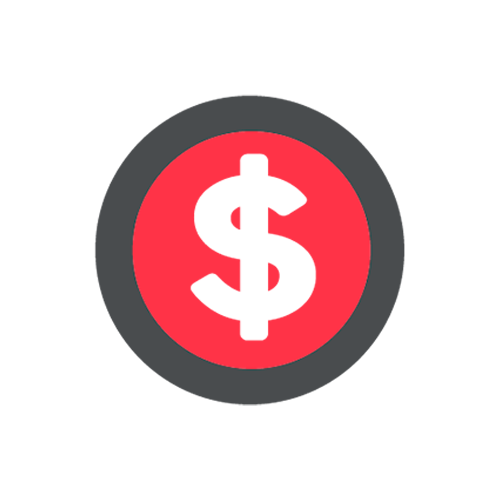
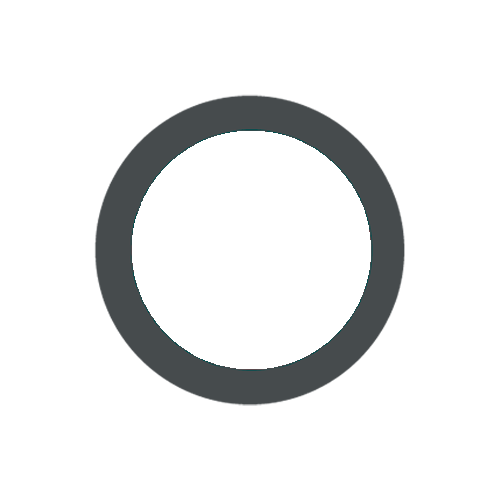
restante das alteracoe no alinhamento

Changed region(s): [[0.24, 0.24, 0.75, 0.75], [0.51, 0.51, 0.57, 0.6], [0.45, 0.42, 0.48, 0.48]]

diff --git a/index.html b/index.html
@@ -11,21 +11,22 @@
 
     <header>
         <nav class="menu" >
-            <a href="index.html"><img class="icon" src="imagens/apenas logo colorido.png" alt="Home page"></a>
-                              
+            <div id="btn-home">
+            <a target="_blank" href="index.html"><img class="icon" src="imagens/apenas logo colorido.png" alt="Home page"></a>
+        </div>                 
             <div class="icone-menu" >
-              <a href="Cadastro Express.html"><img class="icon" src="imagens/express.png" alt="Envio Express"></a>
+              <a target="_blank" href="Cadastro Express.html"><img class="icon" src="imagens/express.png" alt="Envio Express"></a>
               <p>Envio Express</p>
             </div>
             <div class="icone-menu">
-                <a href="Cadastro Express.html"><img class="icon" src="imagens/jumbo.png" alt="Envio Jumbo"></a>
+                <a target="_blank" href="Cadastro Express.html"><img class="icon" src="imagens/jumbo.png" alt="Envio Jumbo"></a>
                 <p>Envio Jumbo</p>
             </div>
             <div class="icone-menu">
-                <a href="Cadastro Express.html"><img class="icon" src="imagens/ajuda.png" alt="Central de Ajuda"></a>
+                <a target="_blank" href="Cadastro Express.html"><img class="icon" src="imagens/ajuda.png" alt="Central de Ajuda"></a>
                 <p>Central de Ajuda</p>
             </div>  
-                 <button>Entrar</button>
+                 <button id="btn-entrar">Entrar</button>
             </nav>
     </header>
     <body> 
@@ -42,25 +43,34 @@
             <section class="pagina-dois" >
                 <div id="part1">
                 <img class="icone-pag2" src="imagens/medalha.png" alt="">
-                <p>A líder de mercado de móveis, cama, mesa e banho, está utilizando todos os seus anos de experiência para oferecer uma nova experiência no mercado de logística.</p>
+                <p>A líder no mercado de móveis, cama, mesa e banho, está utilizando todos os seus anos de experiência para oferecer uma nova experiência no mercado de logística.</p>
                 <img id="moveis" src="imagens/moveis.jpg" alt="Móveis Log4"> 
                 </div>
                 <div id="part2">
                 <img id="logistica" src="imagens/logistica.png" alt="caixas Log4">
-                <p>Agora, nós cuidamos de suas encomendas, não importa o tamanho do seu pacote, nós entregamos de forma rápida e segura!</p>
+                <p>Agora, nós cuidamos de suas encomendas. Não importa o tamanho do seu pacote, nós entregamos de forma rápida e segura!</p>
                <img class="icone-pag2" src="imagens/relogio.png" alt="">
-                <button id="botao-cliente">Quero ser Cliente ></button>
+                <div>
+                <button id="btn-cliente">Quero ser Cliente ></button>
                 </div>
+            </div>
             </section>
             <section class="pagina-tres" >
                 <div class="textos" >
                     <h2 class="titulo" >Nossos Serviços</h2>
-                    <p>Sua entrega sem sair de casa, sem fila, sem enfrentar trânsito, de um jeito rápido, seguro e sem custo extra.</p>
+                    <p>Sua entrega sem sair de casa, sem fila, sem enfrentar trânsito, de um jeito rápido, seguro com baixo custo.</p>
                     <button class="botao2">Experimentar ></button>
                 </div>
-                <img class="imagens" src="imagens/logo branco.png" alt="">
+                <img id="img-pt3" src="imagens/moeda.png" alt="Moeda">
             </section>
-            
+            <footer id="footer">
+                <h3>Fale conosco em nossas redes</h3>
+                <a target="_blank" href="https://www.facebook.com"><img class="img-footer" src="imagens/facebook.png" alt="Facebook"></a>
+                <a target="_blank" href="https://www.instagram.com"><img class="img-footer" src="imagens/instagram.png" alt="Instagram"></a>
+                <a target="_blank" href="https://twitter.com"><img class="img-footer" src="imagens/twitter.png" alt="Twitter"></a> 
+                <a target="_blank" href="https://web.whatsapp.com/"><img class="img-footer" src="imagens/whatsapp.png" alt="Whatsapp"></a>
+                <a target="_blank" href="https://www.google.com/intl/pt/gmail"><img class="img-footer" src="imagens/email.png" alt="Email"></a>
+            </footer>
            
     </body>
     </html>

diff --git a/style.css b/style.css
@@ -5,12 +5,18 @@
     margin: 0;
     padding: 0;
 }
+#btn-home{
+   margin: -12%;
+ padding-top: 30px;
+
+}
 .menu{
     display:flex;
     align-items: center;
     justify-items: center;
-    margin: 1%;
+    margin: 2%;
     text-align: center;
+    
    
 }
 .icon{
@@ -33,7 +39,7 @@
     width: 30%;
 }
 
-button{
+#btn-entrar{
     background-color: rgb(185, 62, 62);
     border: none;
     border-radius: 100px;
@@ -91,20 +97,24 @@ width:90%
    display: grid;
    grid-template-columns: 30% 100% 100%;
    height: 50vh;
-   width: 100vh;
-   max-width: 95vh;
+   max-width: 90vh;
    margin-top: 5%;
    margin-left: 2%;
    margin-right: 2%;
-   padding: 8px;
+   
    align-items: center;
    font-family: 'Mukta', sans-serif;
    font-size: 30px;
+   
+}
+#logistica{
+   min-width: 100%;
+  
 }
 
 .pagina-dois #part2{
    display: grid;
-   grid-template-columns: 90% 100% 30%;
+   grid-template-columns: 60% 100% 30%;
    height: 50vh;
    width: 90vh;
    max-width: 90vh;
@@ -112,6 +122,7 @@ width:90%
    justify-items:left ;
    font-family: 'Mukta', sans-serif;
    font-size: 30px;
+   
 }
 
 #moveis{
@@ -120,13 +131,22 @@ width:90%
 #logistica{
    width: 80%;
    
+   
 }
-  
-.imagens{
-   width: 50vw;
-   display: flex;
-   align-items: center;
-   height: 100vh;
+#btn-cliente{
+background-color: rgb(185, 62, 62);
+    border: none;
+    border-radius: 100px;
+    color: white;
+    display: flex;
+    padding: 20px;
+    width: 200px;
+    height: 55px;
+    justify-content: center;
+    font-size: 18px;
+    margin: 20px;
+    margin-left:1250px;
+   
 }
   
 .textos{
@@ -147,20 +167,40 @@ width:90%
    padding: 20px;
    width: 200px;
    justify-content: center;
-   font-size: 16px;
+   font-size: 20px;
    font-family: 'Mukta', sans-serif;
    margin: 25px;
+   margin-left: 1200px;
+  line-height: 25%;
+  
    
 }
       
 .pagina-tres{
-   display: grid;
-   grid-template-columns: 1fr 1fr;
-   height: 50vh;
+   display: flex;
+   height: 35vh;
+   width: 100hv;
    background: rgb(185, 62, 62);
-   margin-top: 30% ;
+   color: white;
+   font-size: 30px;
+   font-family: 'Mukta', sans-serif;
+   align-items: top;
+ padding-left: 3%;
+   
 }
+footer{
+   max-width: 100%;
+   font-size: 20px;
+   font-family: 'Mukta', sans-serif;
+   margin-left: 3%;
   
+}
+
+.img-footer{
+   margin: 1%;
+   width: 5%;
+   margin-top: -6px;
+}
 
 
 
